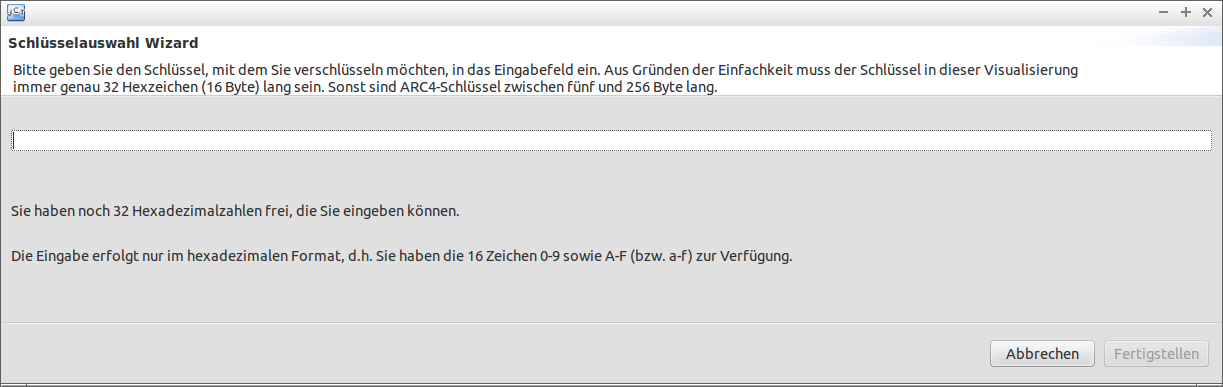
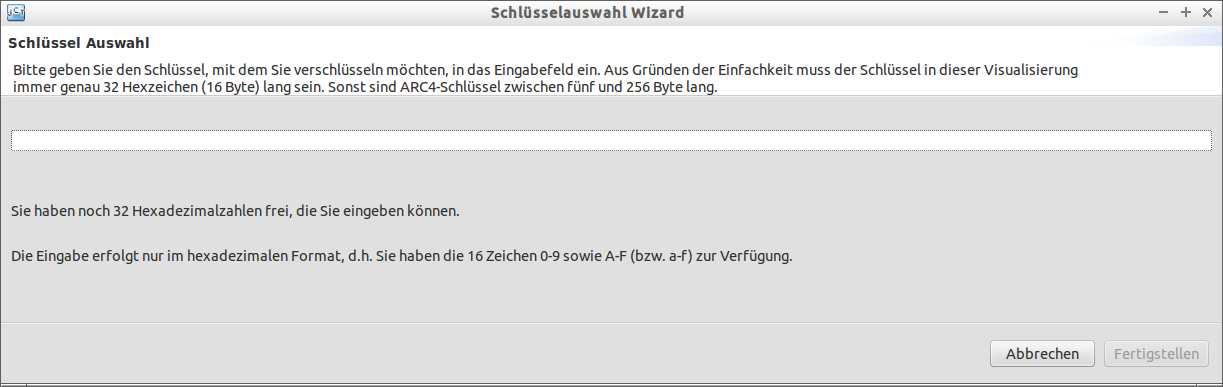
changes
help update and gui

Changed region(s): [[0.4039, 0.0, 0.5593, 0.062], [0.0311, 0.093, 0.1864, 0.124]]

diff --git a/nl/de/help/content/index.html b/nl/de/help/content/index.html
@@ -21,7 +21,7 @@
 	RC4, seinem Algorithmus oder seinen Sicherheitsaspekten interessiert sind, k&ouml;nnen Sie auch direkt zu den Nutzerinstruktionen 
 	springen.</p>
 	
-	<h2 id="func">Funktionsweise von ARC4</h2>
+	<h2 id="func">1. Funktionsweise von ARC4</h2>
 	
 	<p>
 	Bei RC4 beziehungsweise ARC4 handelt es sich um eine kryptographische Stromchiffre. Bekannt und verbreitet wurde sie vor allem durch die
@@ -84,7 +84,7 @@
 	Genaueres zu Spritz finden Sie in den unten aufgelisteten Verweisen (vor allem in dem Artikel von Bruce Schneier).
 	</p>
 	
-	<h2 id="sec">Sicherheit von ARC4</h2>
+	<h2 id="sec">2. Sicherheit von ARC4</h2>
 	
 	<p>
 	F&uuml;r die Sicherheit von RC4 gilt grunds&auml;tzlich dasselbe wie f&uuml;r alle Stromchiffren. Diese sind nur dann sicher, wenn sich 
@@ -170,7 +170,7 @@
 	(vergleiche <a href="http://www.heise.de/newsticker/meldung/IETF-verbietet-RC4-Verschluesselung-in-TLS-2556520.html">die Heise-Meldung vom 20.02.2015</a>).
 	</p>
 	
-	<h2 id="user_instruct">Benutzerinstruktionen (Bedienungsanleitung)</h2>
+	<h2 id="user_instruct">3. Benutzerinstruktionen (Bedienungsanleitung)</h2>
 
 	<p>Starten Sie die Visualisierung von ARC4, indem Sie im Men&uuml;punkt <i>Visualisierungen</i> den Punkt <i>ARC4 / Spritz</i> anklicken.
 	Daraufhin &ouml;ffnet sich ein neues Fenster. In diesem Fenster sehen Sie oben einen beschreibenden Text zur Visualisierung und zur 
@@ -251,7 +251,7 @@
 	<p>
 	<img src="screenshot_button_restart.png" alt="RestartButton">
 	
-	<h2 id="example">Beispiel</h2>
+	<h2 id="example">4. Beispiel</h2>
 
 	<p>
 	Als letzter Punkt dieser Hilfe folgt nun ein kleines Beispiel zur Nutzung der beiden ARC4-Plug-ins (<b>Visualisierungs-Plug-in</b> und 
@@ -259,7 +259,7 @@
 	</p>
 	
 	<p>
-	Bemerkung: Mit dem ARC4 Krypto-Plug-in kann man Klartexte verschl&uuml;sseln bzw. Geheimtexte entschl&uuml;sseln,
+	Bemerkung: Mit dem ARC4-Krypto-Plug-in kann man Klartexte verschl&uuml;sseln bzw. Geheimtexte entschl&uuml;sseln,
 	die eine beliebige L&auml;nge haben (gespeichert in einer Datei oder im JCT-Editor). Im Gegensatz dazu muss
 	der Input des ARC4-Visualisierungs-Plug-ins eine L&auml;nge von genau 16 Bytes haben (der Zweck des Visualisierungs-Plug-ins
 	ist ja auch nicht die Verschl&uuml;sselung von Massendaten sondern die exemplarische Visualisierung).
@@ -319,12 +319,12 @@
 	<img src="screenshot_complete.png" alt="beispiel komplett">
 	
 	<p>
-	Bemerkung: Die Screenshots f&uuml;r das Krypto-Plug-in finden
+	Bemerkung: Die entsprechenden Screenshots mit dem Beispiel f&uuml;r das Krypto-Plug-in finden
 	Sie am Ende der Onlinehilfe zum 
 	<b><a href="PLUGINS_ROOT/org.jcryptool.crypto.modern.stream.arc4/nl/de/help/content/UI/tutorialUI.html">ARC4-Krypto Plug-in</a></b>.
 	</p>
 
-	<h2 id="literature">Weiterf&uuml;hrende Verweise</h2>
+	<h2 id="literature">5. Weiterf&uuml;hrende Verweise</h2>
 
 	<p>Weitere Informationen zum Thema Kryptographie und (A)RC4 finden Sie beispielsweise unter:</p>
 	<ul>
@@ -339,7 +339,7 @@
 			</a>
 		</li>
 		<li>
-			Fluhrer, Mantin, Shamir:
+			Scott Fluhrer, Itsik Mantin, Adi Shamir:
 			<i>
 				<a href="http://www.wisdom.weizmann.ac.il/~itsik/RC4/Papers/Rc4_ksa.ps">
 					Weaknesses in the Key Scheduling Algorithm of RC4, 2002
@@ -355,7 +355,7 @@
 			</i>
 		</li>
 		<li>
-			AlFardan, Bernstein, Paterson, Poettering, Schuldt:
+			Nadhem AlFardan, Dan Bernstein, Kenny Paterson, Bertram Poettering, Jacob Schuldt:
 			<i>
 				<a href="http://www.isg.rhul.ac.uk/tls/">
 					On the Security of RC4 in TLS and WPA, 2013

diff --git a/nl/en/help/content/index.html b/nl/en/help/content/index.html
@@ -24,7 +24,7 @@
 	RC4, its algorithm itself or the security aspects, feel free to directly jump to the user instructions.
 	</p>
 
-	<h2 id="func">Description of the algorithm</h2>
+	<h2 id="func">1. Description of the algorithm</h2>
 
 	<p>
 	RC4 and ARC4 respectively are cryptographic stream ciphers. RC4 became well known and widespread mainly because of its usage in standards
@@ -86,7 +86,7 @@
 	found in the references listed below (especially in the article written by Bruce Schneier).
 	</p>
 
-	<h2 id="sec">Security of (A)RC4</h2>
+	<h2 id="sec">2. Security of (A)RC4</h2>
 
 	<p>
 	Stream ciphers can only be secure if the random bitstream generated by the algorithm is never the same, and if there is no way to predict 
@@ -160,7 +160,7 @@
 	The IETF decided with its publication of RFC 7465 in February 2015 that using RC4 in TLS is prohibited.
 	</p>
 
-	<h2 id="user_instruct">User instructions for this plugin</h2>
+	<h2 id="user_instruct">3. User instructions for this plugin</h2>
 
 	<p>
 	Start the visualization by clicking on <i>ARC4 / Spritz</i> in the submenu <i>Visuals</i>. As a result a new window opens up.
@@ -239,7 +239,7 @@
 	and <i>Restore</i>.</p>
 	<img src="screenshot_button_restart.png" alt="RestartButton">
 
-	<h2 id="example">Example</h2>
+	<h2 id="example">4. Example</h2>
 
 	<p>
 	As a last point of this help text we show a little example of how to encrypt a text with 
@@ -302,11 +302,12 @@
 	<img src="screenshot_complete.png" alt="example picture complete">
 	
 	<p>
-	Remark: The screenshots for the crypto plug-in are at the end of the online help for the
-	<b><a href=<a href="PLUGINS_ROOT/org.jcryptool.crypto.modern.stream.arc4/nl/en/help/content/UI/tutorialUI.html">crypto plug-in</a></b>.
+	Remark: The screenshots for the ARC4 crypto plug-in are at the end of the online help for the
+	<b><a href="PLUGINS_ROOT/org.jcryptool.crypto.modern.stream.arc4/nl/en/help/content/UI/tutorialUI.html">crypto plug-in</a></b>.
 	</p>
+	   
 
-	<h2 id="literature">Further references and literature</h2>
+	<h2 id="literature">5. Further references and literature</h2>
 
 	<p>Further information on cryptography and (A)RC4 are available here:</p>
 	<ul>
@@ -321,7 +322,7 @@
 			</a>
 		</li>
 		<li>
-			Fluhrer, Mantin, Shamir:
+			Scott Fluhrer, Itsik Mantin, Adi Shamir:
 			<i>
 				<a href="http://www.wisdom.weizmann.ac.il/~itsik/RC4/Papers/Rc4_ksa.ps">
 					Weaknesses in the Key Scheduling Algorithm of RC4, 2002
@@ -337,7 +338,7 @@
 			</i>
 		</li>
 		<li>
-			AlFardan, Bernstein, Paterson, Poettering, Schuldt:
+			Nadhem AlFardan, Dan Bernstein, Kenny Paterson, Bertram Poettering, Jacob Schuldt:
 			<i>
 				<a href="http://www.isg.rhul.ac.uk/tls/">
 					On the Security of RC4 in TLS and WPA, 2013
@@ -352,6 +353,7 @@
 				</a>
 			</i>
 		</li>
+		<li>
 			Christina Garman, Kenneth G. Paterson, Thyla van der Merwe:
 			<i>
 				<a href="http://www.isg.rhul.ac.uk/tls/RC4passwords.pdf">
